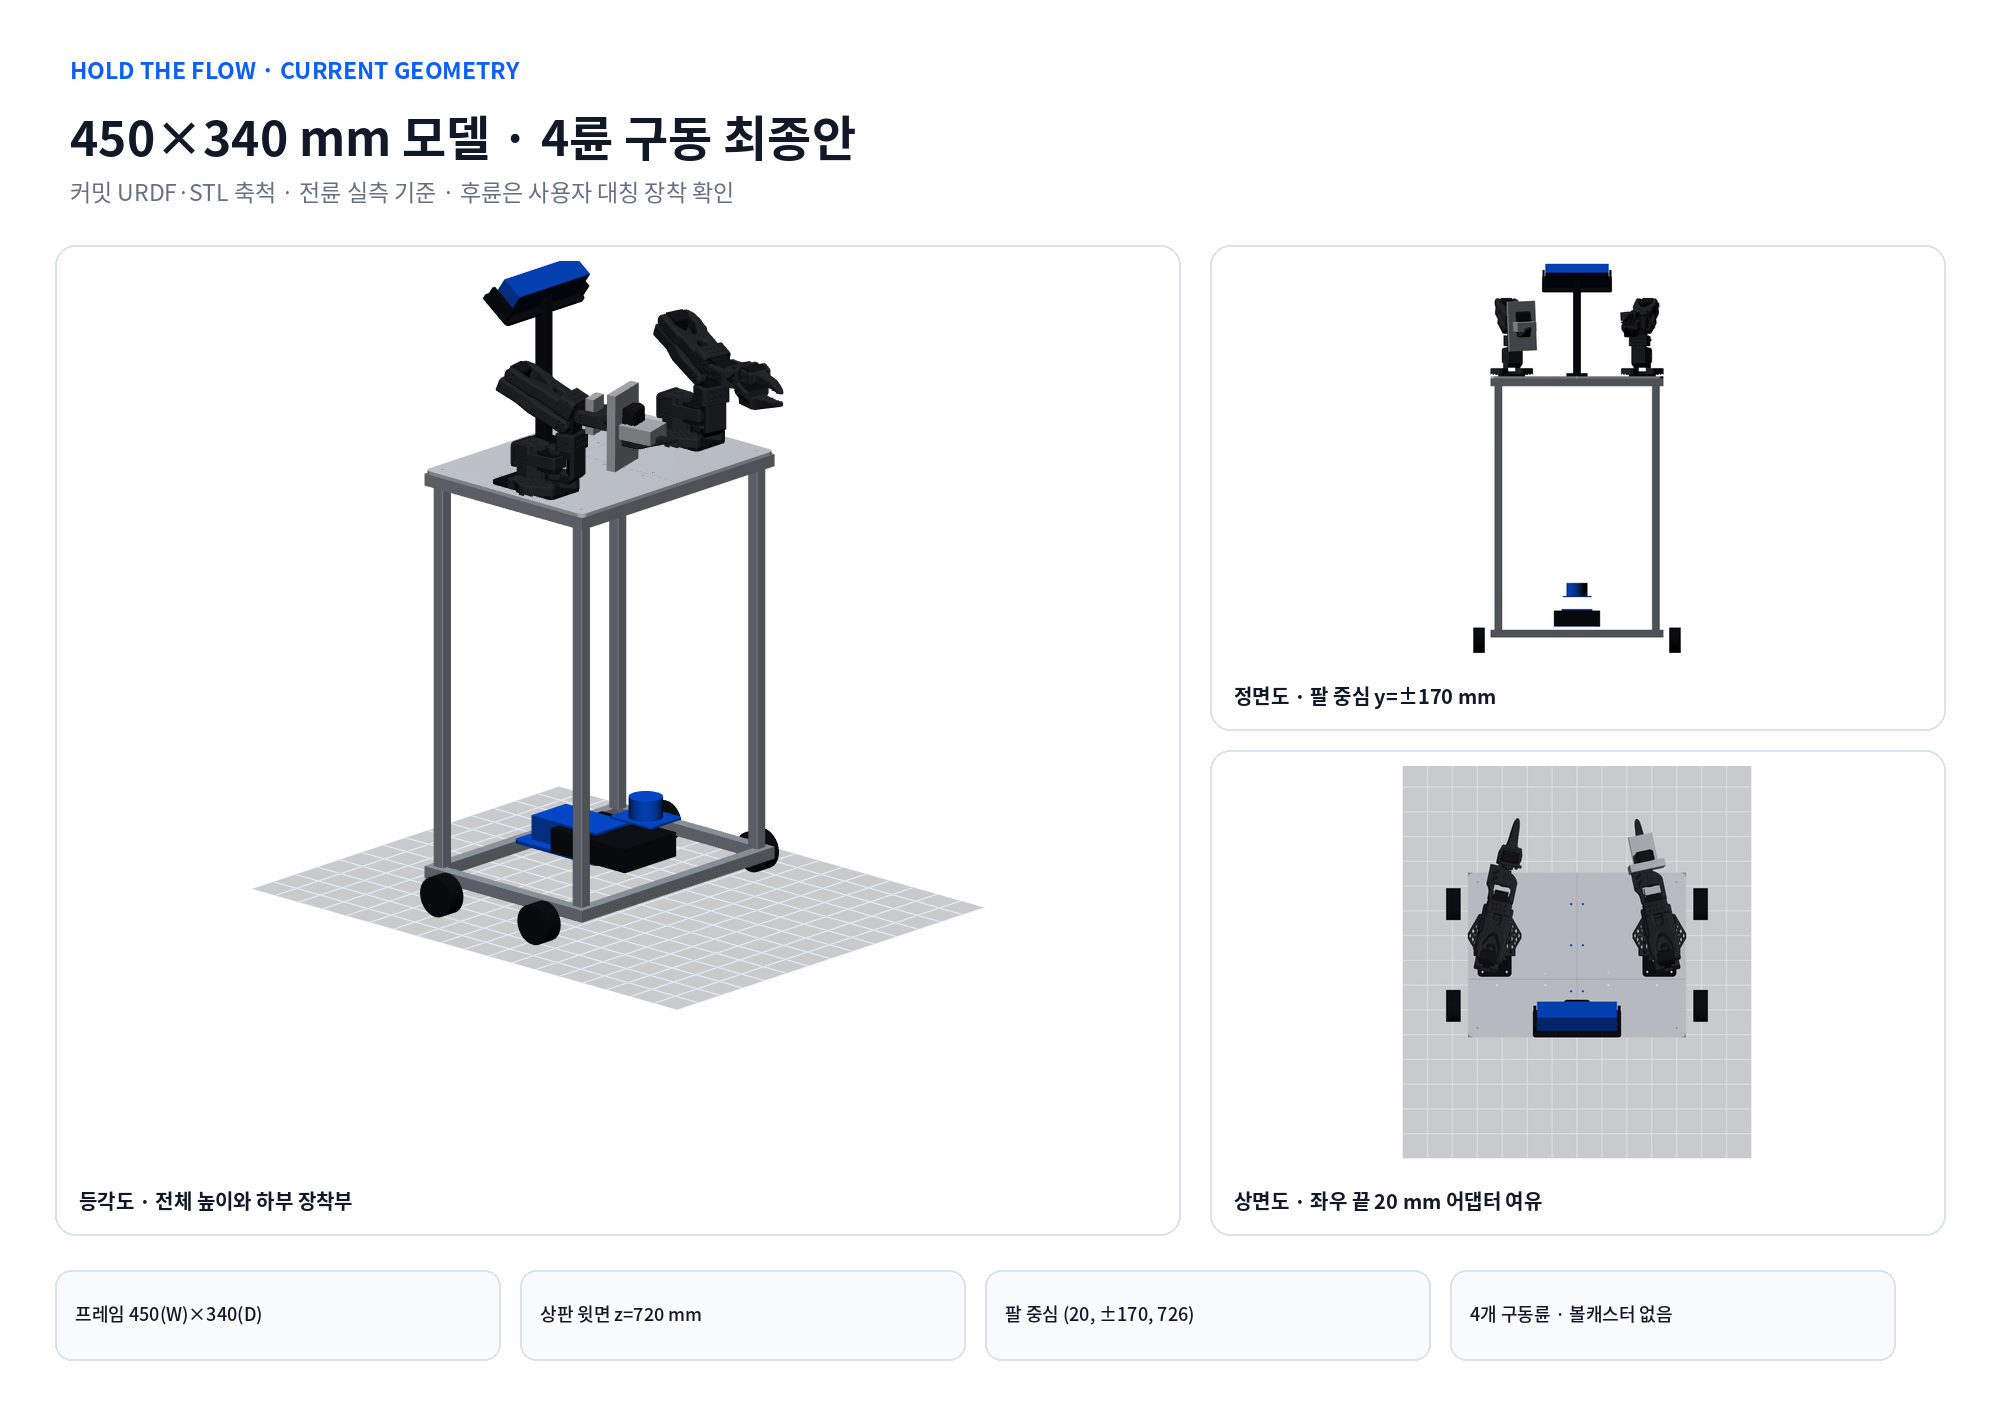
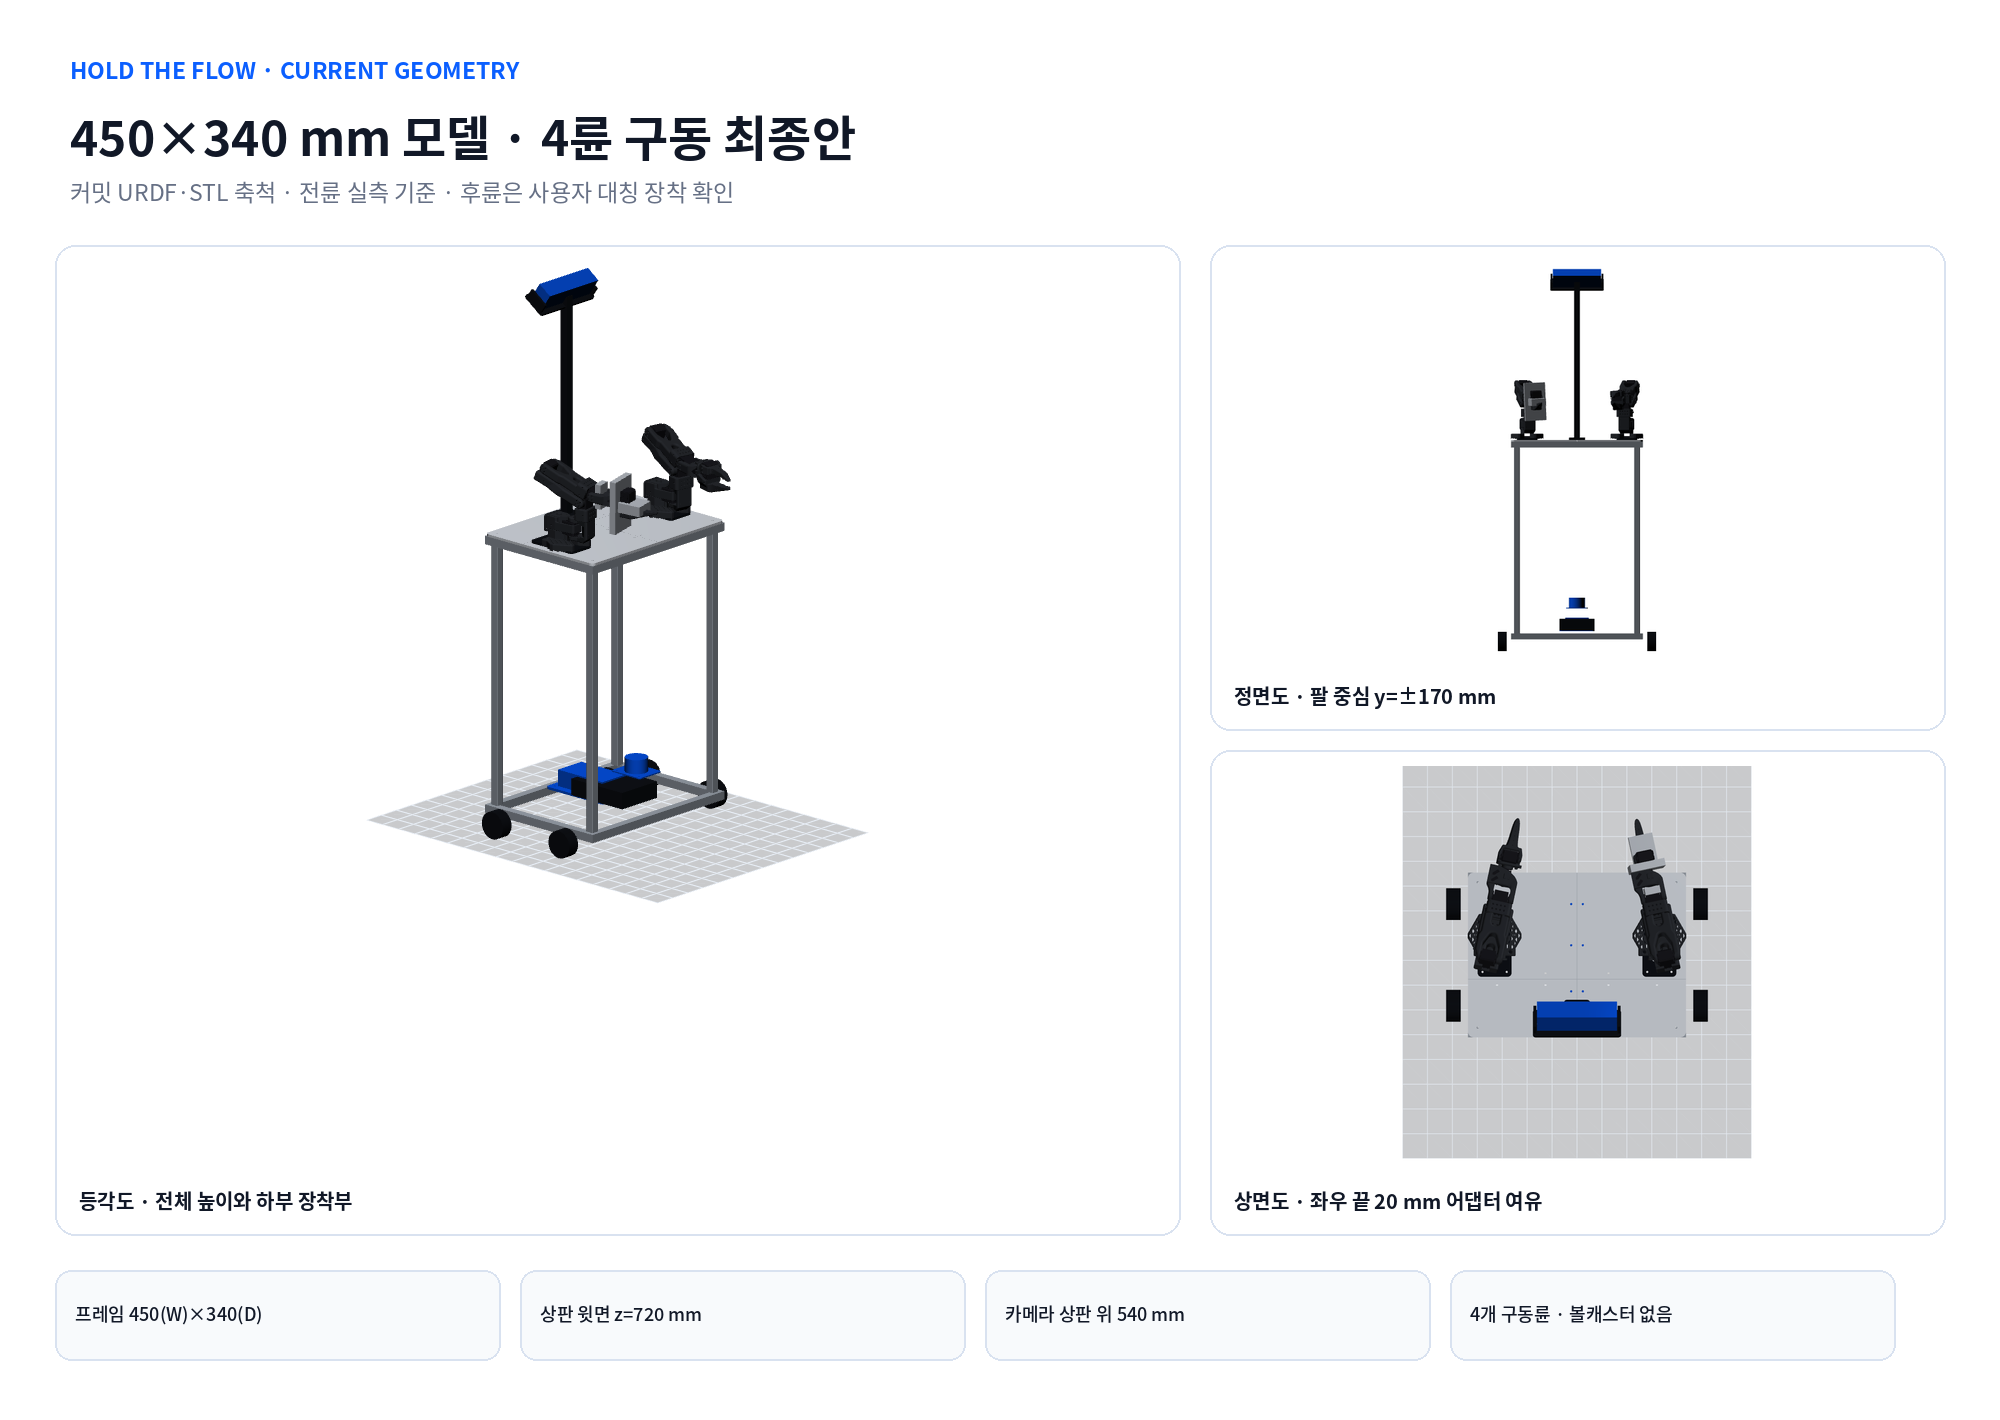
fix(camera): 렌즈 높이를 상판 위 54cm로 갱신 (#65)

Changed region(s): [[0.124, 0.1859, 0.496, 0.7127], [0.713, 0.1859, 0.837, 0.4648], [0.496, 0.8986, 0.589, 0.9296]]

diff --git a/tests/test_mechanical_v03.py b/tests/test_mechanical_v03.py
@@ -69,7 +69,18 @@ print(xacro.process_file(sys.argv[1]).toxml())
         self.assertFalse(
             spec["provenance"]["left_finray_fingers_historical"]["current_build_use"]
         )
-        self.assertEqual(spec["camera"]["height_above_tabletop"], 250.0)
+        self.assertEqual(spec["camera"]["height_above_tabletop"], 540.0)
+        self.assertEqual(spec["camera"]["optical_center_xyz"], [-110.0, 0.0, 1260.0])
+        self.assertEqual(spec["camera"]["mount"]["mast_visual_proxy_length"], 530.0)
+        self.assertEqual(
+            spec["camera"]["mount"]["mast_length_status"],
+            "legacy_cad_candidate_not_current_physical_mast",
+        )
+        self.assertEqual(
+            spec["camera"]["optical_center_xyz"][2]
+            - spec["chassis"]["plates"]["tabletop"]["z_top"],
+            spec["camera"]["height_above_tabletop"],
+        )
         self.assertEqual(spec["camera"]["mount"]["mast_z_bottom"], 728.0)
         self.assertEqual(
             spec["camera"]["mount"]["mast_z_bottom"],

diff --git a/design/cad/render_full_size_frame.py b/design/cad/render_full_size_frame.py
@@ -58,7 +58,7 @@ def compose(iso_path: Path, front_path: Path, top_path: Path, output: Path) -> N
     facts = (
         "프레임 450(W)×340(D)",
         "상판 윗면 z=720 mm",
-        "팔 중심 (20, ±170, 726)",
+        "카메라 상판 위 540 mm",
         "4개 구동륜 · 볼캐스터 없음",
     )
     x = 55
@@ -88,8 +88,8 @@ def main() -> None:
         iso_path = temporary / "iso.png"
         front_path = temporary / "front.png"
         top_path = temporary / "top.png"
-        render_urdf(iso_path, positions, view="iso", parallel_scale=650)
-        render_urdf(front_path, positions, view="front", parallel_scale=590)
+        render_urdf(iso_path, positions, view="iso", parallel_scale=950)
+        render_urdf(front_path, positions, view="front", parallel_scale=900)
         render_urdf(top_path, positions, view="top", parallel_scale=430)
         compose(iso_path, front_path, top_path, OUTPUT_DIR / "model_overview.png")
     print(OUTPUT_DIR / "model_overview.png")

diff --git a/design/mechanical/calculate_full_size_tabletop_design.py b/design/mechanical/calculate_full_size_tabletop_design.py
@@ -183,7 +183,7 @@ def main() -> None:
             ),
             "tabletop_is_four_printable_panels": len(tabletop["quadrant_names"]) == 4,
             "tabletop_is_720_high": math.isclose(float(tabletop["z_top"]), 720.0),
-            "camera_is_20_to_30cm_above_tabletop": 200.0 <= camera_height <= 300.0,
+            "camera_is_540mm_above_tabletop": math.isclose(camera_height, 540.0),
             "both_arms_fit_tabletop_without_envelope_overlap": min(clearances.values()) > 0.0,
             "arm_bases_are_150mm_from_front_edge": all(
                 math.isclose(170.0 - float(arm["xyz"][0]), 150.0)

diff --git a/src/hold_flow_description/scripts/validate_description.py b/src/hold_flow_description/scripts/validate_description.py
@@ -328,7 +328,7 @@ def main() -> None:
     lidar_xyz = xyz_of(transforms["laser_link"])
     left_arm_xyz = xyz_of(transforms["left_base_link"])
     right_arm_xyz = xyz_of(transforms["right_base_link"])
-    assert_xyz(camera_xyz, [-0.110, 0.0, 0.970], tolerance=2e-6)
+    assert_xyz(camera_xyz, [-0.110, 0.0, 1.260], tolerance=2e-6)
     assert_xyz(lidar_xyz, [0.100, 0.0, 0.165])
     assert_xyz(left_arm_xyz, [0.020, 0.170, 0.726])
     assert_xyz(right_arm_xyz, [0.020, -0.170, 0.726])

diff --git a/docs/20260910_450x340_4분할상판_URDF_IsaacSim_모델.md b/docs/20260910_450x340_4분할상판_URDF_IsaacSim_모델.md
@@ -16,8 +16,10 @@ YAML·생성기·검증 결과가 우선한다.
 
 좌표는 `x=전방`, `y=좌측`, `z=위`이고 원점은 차체 중심의 바닥이다.
 4륜 구동 선택과 네 서보 조립은 사용자 확인을 반영했다. 후륜은 사용자 확인에 따라 앞뒤 끝에서 같은 거리로 장착한 배치이며,
-상판·센서 높이는 이전 명목 모델이다. 높아진 실차의 상판·카메라·G4를 실측한 값으로
-표기하지 않는다. 실차 JD-AMR 전륜축 원점에서 모델 원점으로의 좌표 변환은 x에105 mm를
+상판 윗면의 바닥 기준720 mm와 카메라 렌즈 중심의 상판 기준 높이540 mm는 사용자
+확인값이며, 절대 z=1260 mm는 두 값을 합산했다. 카메라 방향과 G4 좌표를 새로 실측한
+값으로 표기하지 않는다.
+실차 JD-AMR 전륜축 원점에서 모델 원점으로의 좌표 변환은 x에105 mm를
 더하는 방식이며, 이번 모델 수정으로 주행기의 TF를 바꾸지 않는다.
 
 | 항목 | 현행 모델 |
@@ -28,7 +30,7 @@ YAML·생성기·검증 결과가 우선한다.
 | 상부 보강 | 둘레 2020 링 + 상판 분할선 아래 x/y 가로재 |
 | 왼팔·오른팔 | `(20, +170, 726)`, `(20, -170, 726)` mm. 450 mm 폭의 좌우 끝 배치 |
 | 팔의 전면 거리 | 전면 x=170 mm에서 팔 중심까지 150 mm |
-| 카메라 | 광학 중심 `(-110, 0, 970)` mm, 상판보다 250 mm 위 |
+| 카메라 | 광학 중심 `(-110, 0, 1260)` mm, 상판보다540 mm 위. 상판·상대 높이는 사용자 확인, x·35° 하향은 기존 설계값 유지 |
 | 전륜 | 중심 `(105, ±255, 32.9)` mm, 기존 실측 앞끝–축65 mm·좌우 중심거리510 mm |
 | 후륜 | 중심 `(-105, ±255, 32.9)` mm, 사용자 확인 대칭 장착·축간210 mm 환산값, 별도 축간 계측 전 |
 | 구동안 | 4륜 스키드스티어 최종 선택, 볼캐스터 없음 |
@@ -57,7 +59,7 @@ URDF의 각 링크 관성을 0자세에서 합산한 명목값이다. 실물 계
 
 작업 중 순간 총질량은 컵 0.30 kg과 물통 0.56 kg 가정에서 약 8.339 kg, 무거운 물통
 1.10 kg 가정에서 약 8.879 kg이다. 이 두 페이로드 값은 선정품 실측값이 아니라 하중 검토
-시나리오다. 0자세 명목 무게중심은 `(21.2, -3.1, 490.1) mm`, 정적 지지 다각형까지의
+시나리오다. 0자세 명목 무게중심은 `(21.2, -3.1, 506.3) mm`, 정적 지지 다각형까지의
 최소 여유는 83.8 mm다. 이동·급정지·팔 전개·물 흔들림을 포함한 동적 전도 검증은 별도다.
 
 CadQuery manifest의 `estimated_material_mass_g`는 출력물을 100% 고체 PETG로 환산하므로

diff --git a/src/hold_flow_description/README.md b/src/hold_flow_description/README.md
@@ -11,7 +11,7 @@ TF 트리로 묶는 ROS 2 Jazzy 설명 패키지다. 2026-09-22 결정에 따라
 - `base_link`: `base_footprint`에서 z=32.9 mm인 구동륜 축 높이
 - 상판: 450(W)×340(D)×6 mm 4분할, 윗면 z=720 mm
 - 좌우 팔 베이스: `(20, ±170, 726) mm`, 450 mm 상판의 좌우 끝에 배치하고 전면에서 150 mm
-- Astra S depth optical 중심: `(-110, 0, 970) mm`, 상판보다 250 mm 위
+- Astra S depth optical 중심: `(-110, 0, 1260) mm`, 상판보다 540 mm 위. 상판 z=720 mm와 상대 높이는 사용자 확인값
 - LDS-03 후보 중심: `(100, 0, 165) mm`
 - 전륜 중심: `(105, ±255, 32.9) mm`, 앞끝–축65 mm·좌우 중심거리510 mm의 기존 실측 반영
 - 후륜 중심: `(-105, ±255, 32.9) mm`, 사용자 확인 대칭 장착·축간210 mm 환산값이며 별도 줄자 계측은 아님
@@ -20,8 +20,10 @@ TF 트리로 묶는 ROS 2 Jazzy 설명 패키지다. 2026-09-22 결정에 따라
 모델 `base_footprint`는 차체 중심이고 실차 JD-AMR은 전륜축 바닥 투영을 원점으로 쓴다.
 모델 좌표는 실차 좌표에 x=105 mm를 더한 값이며 이번 수정으로 실차 TF를 바꾸지 않는다.
 4륜 스키드스티어의 유효 트레드는 기하510 mm와 구분해 적재 상태에서 보정한다.
-상판·센서의 위 명목 좌표는 높아진 실차 구조의 실측값이 아니다. 카메라 설치와 G4 모델은
-실측 후 맞추며, 최종4륜 선택이 모든 외부 보정 완료를 뜻하지 않는다.
+상판 윗면의 바닥 기준720 mm와 카메라의 상판 기준 높이540 mm를 사용자가 확인했다.
+카메라 x·y는 기존 설계값을 유지한다. 이 양팔 모델의35° 하향 자세와 JD-AMR 주행
+모델의 별도 실차 장착각은 서로 다른 범위다. 방향·G4 모델은 실측 후 맞춘다.
+최종4륜 선택이 모든 외부 보정 완료를 뜻하지 않는다.
 
 ## 형상과 라이선스
 

diff --git a/docs/20260918_URDF_Isaac51_작업환경_프리뷰.md b/docs/20260918_URDF_Isaac51_작업환경_프리뷰.md
@@ -37,7 +37,7 @@
 
 | 항목 | 커밋된 최종 URDF | 프리뷰 처리 |
 |---|---|---|
-| 프레임·상판 | 450×340 mm, 기둥4개·기존 명목 높이 | 유지, 높아진 실차 치수와 구분 |
+| 프레임·상판 | 450×340 mm, 기둥4개·상판 윗면 z=720 mm 사용자 확인 | 유지 |
 | 구동륜 | 전좌·전우·후좌·후우4개 | 네 바퀴 모두 형상·좌우 간격을 계약값으로 확인 |
 | 전륜 | 중심 x=+105 mm, y=±255 mm | 원본 x 유지, 기존 앞끝–축65 mm·간격510 mm의 실측 근거 |
 | 후륜 | 중심 x=-105 mm, y=±255 mm | 원본 x 유지, 축간210 mm는 사용자 대칭 장착 확인의 환산값·별도 계측 전 |
@@ -45,7 +45,7 @@
 | 캐스터 | 없음 | 캐스터가 남은 원본을 현행4륜 프리뷰로 사용하지 않음 |
 | 좌표계 | 모델 차체 중심 기준 | 유지, 실차 전륜축 원점과 x=105 mm 변환을 구분 |
 | 왼손 | SO-101 순정 회전식 죠 | 유지, 현행 보정·실물 죠 일치는 별도 확인 |
-| 센서 | 기존 명목 Astra/LDS 프록시 | 유지, 높아진 카메라·실차 G4를 재현한 것으로 간주하지 않음 |
+| 센서 | Astra 광학 중심은 상판보다540 mm 위, LDS는 기존 프록시 | 확인된 절대 z=1260 mm 반영, 기존35° 방향·실차 G4와 구분 |
 | 책상·컵·병·선반 | 모델 외부 | 가정 치수의 시각 프록시만 추가 |
 
 기계 단일 원본은 `design/mechanical/hold_flow_mechanical_v0_3.yaml`이며 계약은

diff --git a/PROGRESS.md b/PROGRESS.md
@@ -4,6 +4,12 @@
 
 ---
 
+## 2026-10-14 | 카메라 광학 중심을 상판 위540 mm로 갱신
+
+- 사용자가 상판 윗면의 바닥 기준 높이720 mm와 카메라 렌즈 중심의 상판 위 높이540 mm를 확인했다. 기계 단일 원본·캘리브레이션·URDF의 카메라 광학 중심을 `(-110, 0, 1260) mm`로 맞췄다. 카메라 x와 양팔 모델의 기존35° 하향 자세는 유지했으며 JD-AMR 실차 장착각과 같은 값으로 취급하지 않는다.
+- 기존240 mm 마스트 STEP/STL은 과거 CAD 후보로 보존했다. URDF에는 확인된 광학 중심을 표시하는530 mm 박스 프록시를 사용하며 실물 마스트 제작 길이·재질·질량 측정값으로 확정하지 않는다. 현재 프리뷰를 새 높이로 다시 만들고 카메라가 전체 뷰에 포함되는지 확인했다.
+- Xacro/커밋 URDF 일치와 핵심 좌표, URDF 품질, Isaac 정적 계약·가져오기, 설계 계산, README 동기화·Markdown 링크를 검증했다. 관련 테스트15건과 링크102파일이 통과했으며 카메라 좌표는 `[-0.11, 0.0, 1.26] m`, Isaac 이슈는0건이다. 실물 카메라 x·y·방향과 intrinsic·가림 지도는 아직 측정 대상이다.
+
 ## 2026-10-14 | SmolVLA(9000스텝) 로컬 배포 검증과 건식 롤아웃 8회
 
 - 원격 서버 학습(`water_pour_jitter_60_smolvla_v1`) 완료를 확인했다. eval_loss는

diff --git a/design/cad/README.md b/design/cad/README.md
@@ -8,7 +8,9 @@
 - 상·하부 둘레와 상판 이음부를 받치는 2020 레일
 - 상판 지지용 20×20×634 mm 중공 기둥 4개
 - SO-101 교체형 어댑터 2개
-- 후방 중앙 20×20×240 mm 카메라 마스트와 Astra S 거치대
+- 후방 중앙20×20×240 mm 카메라 마스트는 과거 CAD 후보로 보존한다. 현행 URDF는 상판 위
+  카메라 광학 중심540 mm에 맞춘530 mm 박스 프록시를 사용하며, 이를 실물 마스트 제작
+  길이로 확정하지 않는다.
 - 하단 배터리 스트랩 장착판과 LDS-03 조절 장착판
 - 전후 좌우4개 JD-AMR 휠·C018용 측면 캐리어 후보
 
